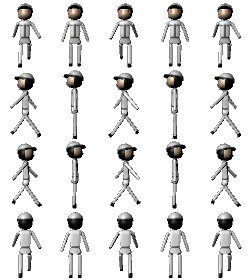
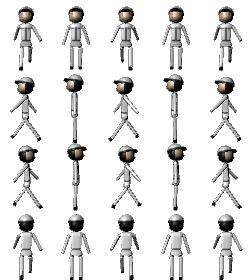
oni player修正

diff --git a/ES Game Library/GameMain.cpp b/ES Game Library/GameMain.cpp
@@ -77,13 +77,14 @@ bool GameMain::Initialize()
 
 	fake = GraphicsDevice.CreateSpriteFromFile(_T("fake.png"));
 
+	down = GraphicsDevice.CreateSpriteFromFile(_T("playerdown.png"));
 	
 	direc4 = 0;
 	player = GraphicsDevice.CreateSpriteFromFile(_T("player2.png"));
 
 	anime = 0;
 	direc = 0;
-	oni = GraphicsDevice.CreateSpriteFromFile(_T("oni.png"));
+	oni = GraphicsDevice.CreateSpriteFromFile(_T("oni2.png"));
 
 	map_data_b[0] =  ("################################");
 	map_data_b[1] =  ("#                              #");
@@ -600,7 +601,7 @@ void GameMain::Player()
 	if (randam_skil != 4) {
 		if (key.IsKeyDown(Keys_Right) || pad2_direction == 6 /* pad_2.X > 0 */) {
 			player_pos.x += player_spd;
-			direc = 2;
+			direc = 1;
 			int mx = (int)(player_pos.x / 50);
 			int my = (int)(player_pos.y / 50);
 
@@ -622,7 +623,7 @@ void GameMain::Player()
 
 		else if (key.IsKeyDown(Keys_Left) || pad2_direction == 4 /* pad_2.X < 0 */) {
 			player_pos.x -= player_spd;
-			direc = 1;
+			direc = 2;
 			int mx = (int)(player_pos.x / 50);
 			int my = (int)(player_pos.y / 50);
 
@@ -947,13 +948,13 @@ void GameMain::Fake()
 		if (k == 3) {
 
 			fake_pos.x += 5;
-			direc2 = 2;
+			direc2 = 1;
 			k_count++;
 		}
 		if (k == 4) {
 
 			fake_pos.x -= 5;
-			direc2 = 1;
+			direc2 = 2;
 			k_count++;
 		}
 	
@@ -1060,14 +1061,14 @@ void GameMain::Fake2() {
 		}
 		if (j == 3) {
 			fake2_pos.x += 5;
-			direc3 = 2;
+			direc3 = 1;
 			j_count++;
 		}
 
 		if (j == 4) {
 
 			fake2_pos.x -= 5;
-			direc3 = 1;
+			direc3 = 2;
 			j_count++;
 		}
 	

diff --git a/ES Game Library/GameMain.h b/ES Game Library/GameMain.h
@@ -102,6 +102,7 @@ private:
 	SPRITE fake;
 	SPRITE bg;
 	SPRITE ton;
+	SPRITE down;
 	Vector3 fake_pos;
 	Vector3 fake2_pos;
 	Vector3 player_pos;
